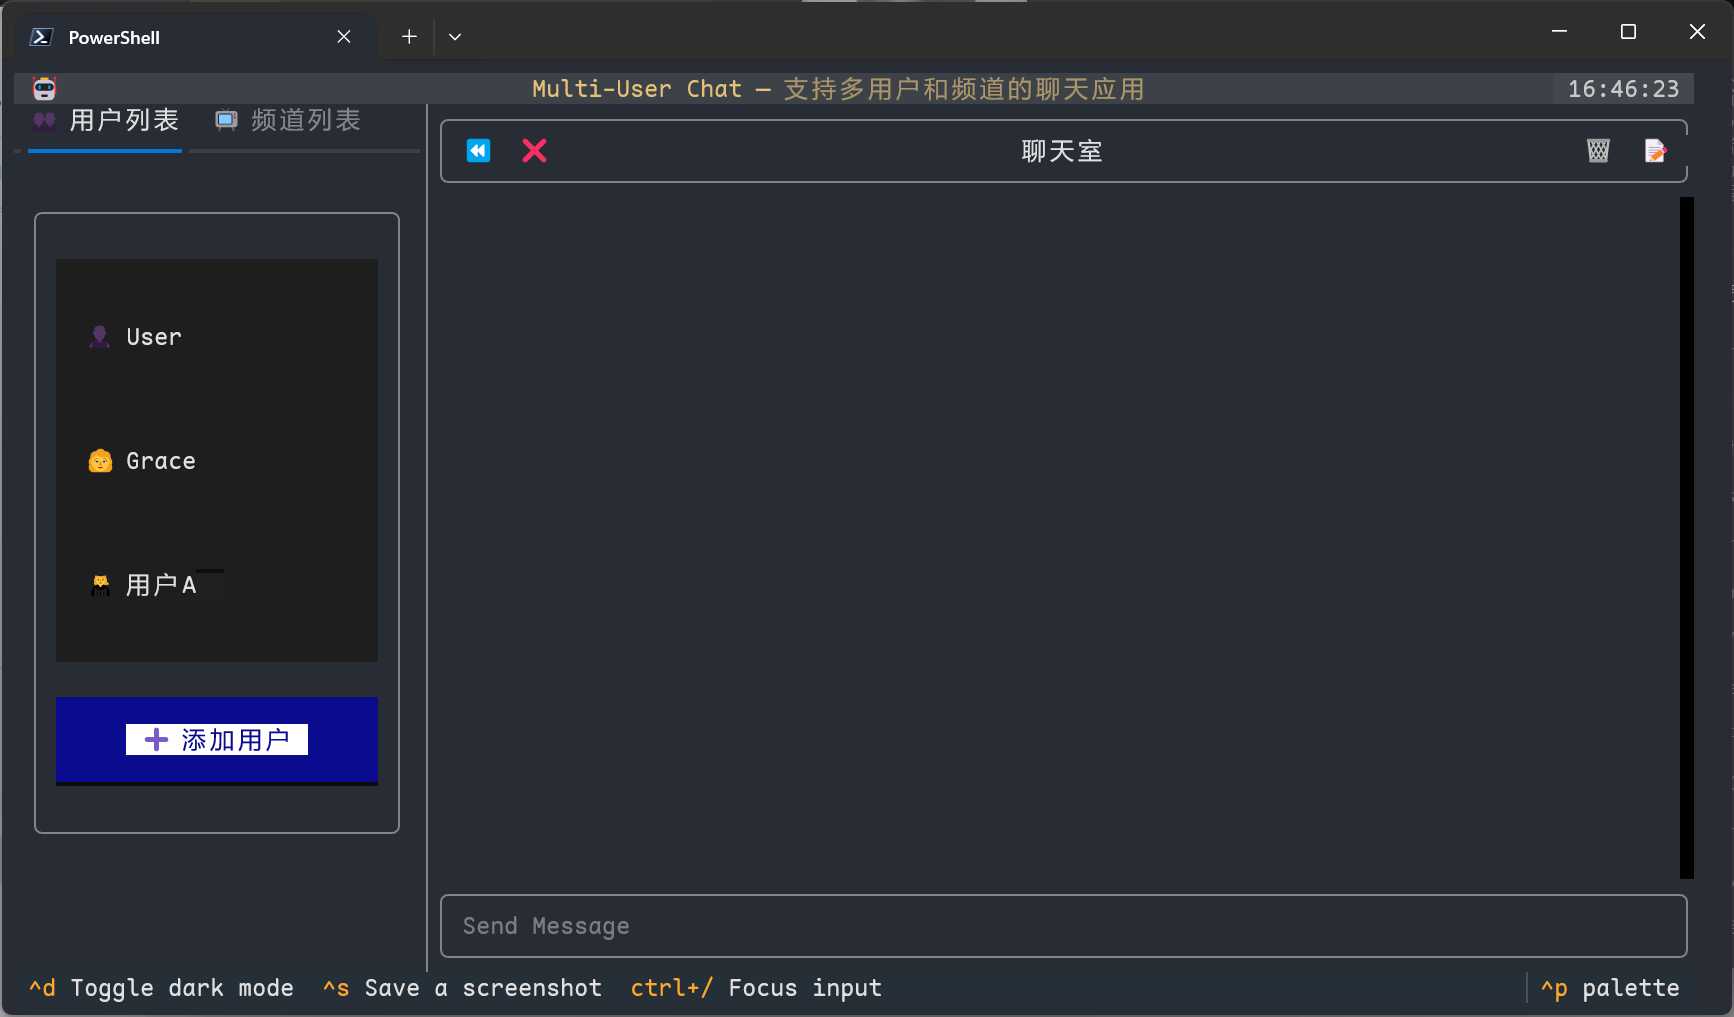
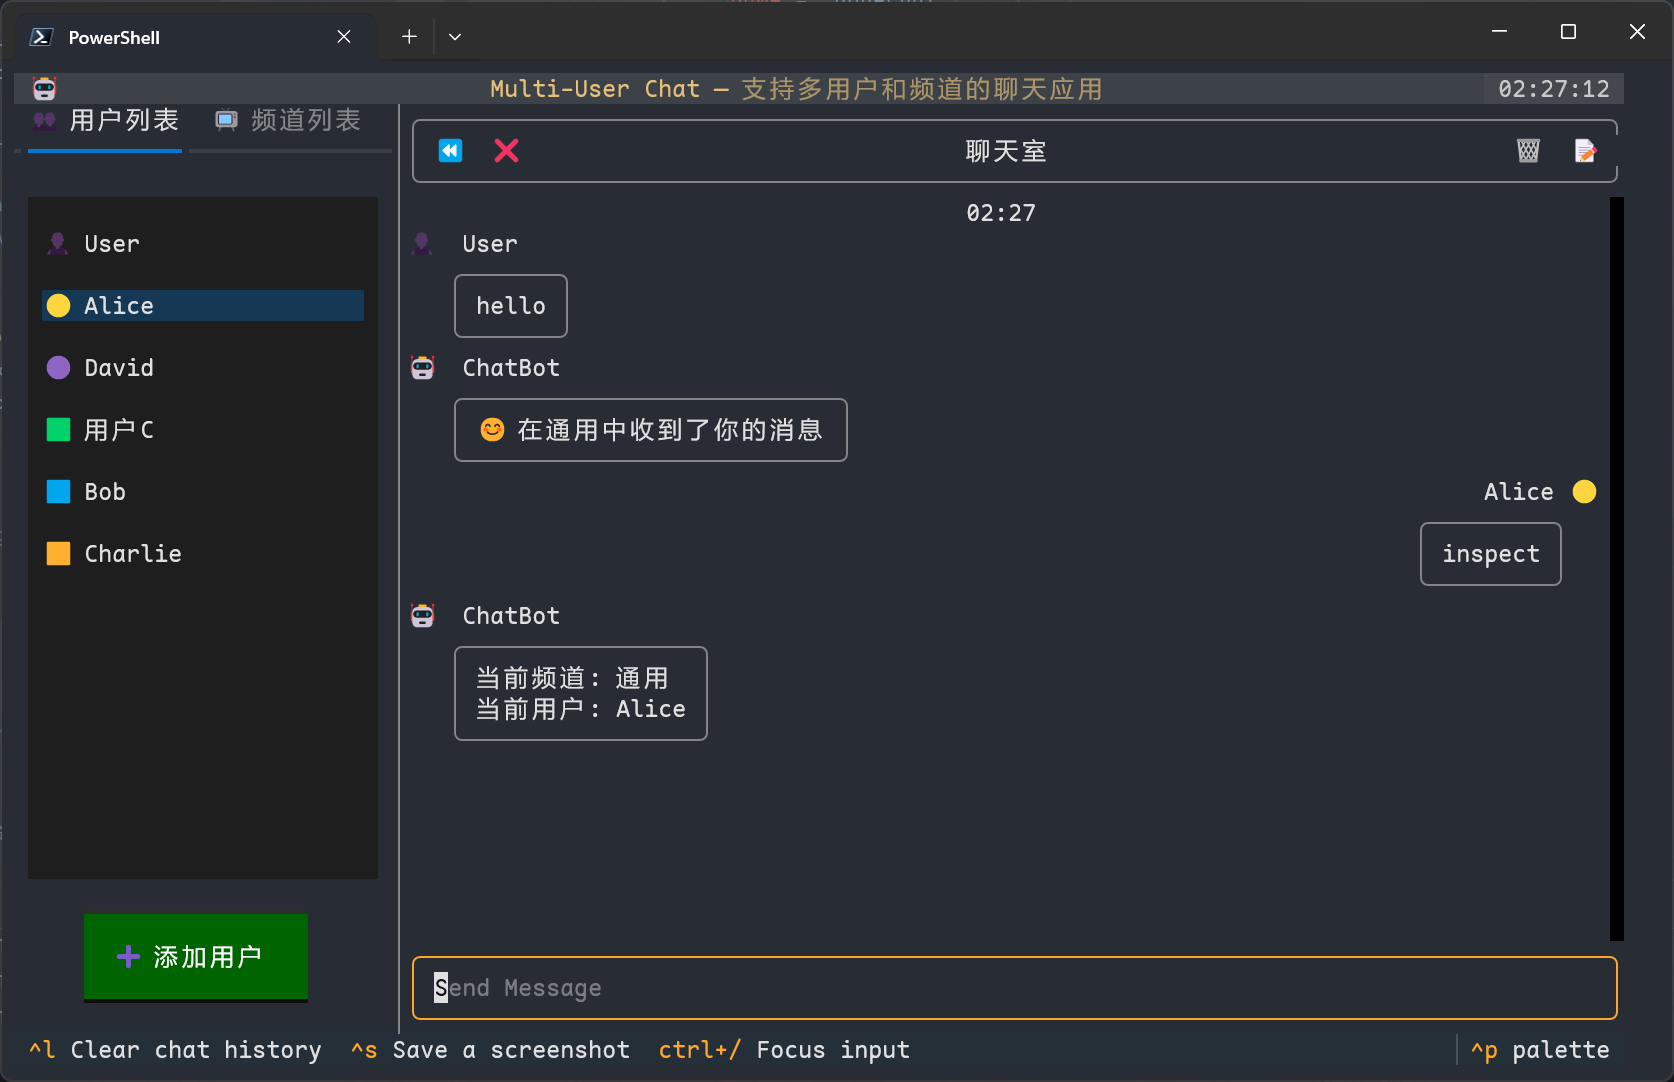
:lipstick: version 0.4.3 edit styles

diff --git a/nonechat/components/sidebar.py b/nonechat/components/sidebar.py
@@ -2,7 +2,8 @@ from typing import TYPE_CHECKING, cast
 
 from textual.widget import Widget
 from textual.message import Message
-from textual.widgets import TabPane, TabbedContent
+from textual.containers import Vertical
+from textual.widgets import Button, TabPane, TabbedContent
 
 from .user_selector import UserSelector, UserSelectorPressed
 from .channel_selector import ChannelSelector, ChannelSelectorPressed
@@ -36,16 +37,39 @@ class Sidebar(Widget):
         width: 25%;
         height: 100%;
         border-right: solid rgba(170, 170, 170, 0.7);
+        layout: vertical;
+    }
+
+    TabbedContent {
+        height: 100%;
     }
 
     TabPane {
         padding: 0;
+        layout: vertical;
+        height: 100%;
+    }
+
+    .selector-container {
+        height: 1fr;
+        layout: vertical;
+    }
+
+    .button-container {
+        height: auto;
+        layout: vertical;
+        margin: 1 0;
+        align-horizontal: center;
     }
 
     UserSelector, ChannelSelector {
         margin: 1 0 0 0;
-        border: none;
-        max-height: 100%;
+        height: 1fr;
+    }
+
+    .add-button {
+        background: darkgreen;
+        color: white;
     }
     """
 
@@ -61,16 +85,29 @@ class Sidebar(Widget):
     def compose(self):
         with TabbedContent():
             with TabPane("👥 用户列表", id="users"):
-                yield self.user_selector
+                with Vertical(classes="selector-container"):
+                    yield self.user_selector
+                with Vertical(classes="button-container"):
+                    yield Button("➕ 添加用户", id="add-user", classes="add-button")
             with TabPane("📺 频道列表", id="channels"):
-                yield self.channel_selector
+                with Vertical(classes="selector-container"):
+                    yield self.channel_selector
+                with Vertical(classes="button-container"):
+                    yield Button("➕ 添加频道", id="add-channel", classes="add-button")
+
+    async def on_button_pressed(self, event: Button.Pressed):
+        """处理按钮点击事件"""
+        if event.button.id == "add-user":
+            await self.user_selector.add_new_user()
+        elif event.button.id == "add-channel":
+            await self.channel_selector.add_new_channel()
 
     def on_user_selector_pressed(self, event: UserSelectorPressed):
         """处理用户选择事件"""
         # 更新当前用户
         self.app.storage.set_user(event.user)
 
-        # 更新用���选择器显示
+        # 更新用户选择器显示
         # self.user_selector.update_user_list()
 
         # 向父组件发送消息

diff --git a/nonechat/components/channel_selector.py b/nonechat/components/channel_selector.py
@@ -4,7 +4,7 @@ from typing import TYPE_CHECKING, cast
 
 from textual.widget import Widget
 from textual.message import Message
-from textual.widgets import Label, Button, ListItem, ListView
+from textual.widgets import Label, ListItem, ListView
 
 from ..model import Channel
 
@@ -26,31 +26,20 @@ class ChannelSelector(Widget):
     DEFAULT_CSS = """
     ChannelSelector {
         layout: vertical;
-        height: auto;
+        height: 100%;
         width: 100%;
-        border: round rgba(170, 170, 170, 0.7);
-        padding: 1;
-        margin: 1;
+        padding: 0 1;
     }
 
     ChannelSelector ListView {
-        height: auto;
+        height: 1fr;
         width: 100%;
-        max-height: 85%;
     }
 
     ChannelSelector ListItem {
         width: 100%;
         margin: 1;
-        padding: 1;
         text-align: center;
-    }
-
-    ChannelSelector .add-channel-button {
-        width: 100%;
-        margin-top: 1;
-        background: darkgreen;
-        color: white;
     }
     """
 
@@ -64,7 +53,6 @@ class ChannelSelector(Widget):
 
     def compose(self):
         yield ListView(id="channel-list")
-        yield Button("➕ 添加频道", classes="add-channel-button", id="add-channel")
 
     async def on_mount(self):
         await self.update_channel_list()
@@ -92,11 +80,6 @@ class ChannelSelector(Widget):
                 else:
                     item.remove_class("current")
 
-    async def on_button_pressed(self, event: Button.Pressed):
-        """处理按钮点击事件"""
-        if event.button.id == "add-channel":
-            await self._add_new_channel()
-
     async def on_list_view_selected(self, event: ListView.Selected):
         """处理列表项选择事件"""
         if event.item and event.item.id and event.item.id.startswith("channel-"):
@@ -106,7 +89,7 @@ class ChannelSelector(Widget):
                     self.post_message(ChannelSelectorPressed(channel))
                     break
 
-    async def _add_new_channel(self):
+    async def add_new_channel(self):
         """添加新频道的逻辑"""
 
         # 生成随机频道ID

diff --git a/nonechat/components/user_selector.py b/nonechat/components/user_selector.py
@@ -4,7 +4,7 @@ from typing import TYPE_CHECKING, cast
 
 from textual.widget import Widget
 from textual.message import Message
-from textual.widgets import Label, Button, ListItem, ListView
+from textual.widgets import Label, ListItem, ListView
 
 from ..model import User
 
@@ -26,31 +26,20 @@ class UserSelector(Widget):
     DEFAULT_CSS = """
     UserSelector {
         layout: vertical;
-        height: auto;
+        height: 100%;
         width: 100%;
-        border: round rgba(170, 170, 170, 0.7);
-        padding: 1;
-        margin: 1;
+        padding: 0 1;
     }
 
     UserSelector ListView {
-        height: auto;
+        height: 1fr;
         width: 100%;
-        max-height: 85%;
     }
 
     UserSelector ListItem {
         width: 100%;
         margin: 1;
-        padding: 1;
         text-align: center;
-    }
-
-    UserSelector .add-user-button {
-        width: 100%;
-        margin-top: 1;
-        background: darkblue;
-        color: white;
     }
     """
 
@@ -64,7 +53,6 @@ class UserSelector(Widget):
 
     def compose(self):
         yield ListView(id="user-list")
-        yield Button("➕ 添加用户", classes="add-user-button", id="add-user")
 
     async def on_mount(self):
         await self.update_user_list()
@@ -87,11 +75,6 @@ class UserSelector(Widget):
             else:
                 item.remove_class("current")
 
-    async def on_button_pressed(self, event: Button.Pressed):
-        """处理按钮点击事件"""
-        if event.button.id == "add-user":
-            await self._add_new_user()
-
     async def on_list_view_selected(self, event: ListView.Selected):
         """处理列表项选择事件"""
         if event.item and event.item.id and event.item.id.startswith("user-"):
@@ -101,7 +84,7 @@ class UserSelector(Widget):
                     self.post_message(UserSelectorPressed(user))
                     break
 
-    async def _add_new_user(self):
+    async def add_new_user(self):
         """添加新用户的逻辑"""
 
         # 生成随机用户ID

diff --git a/nonechat/app.py b/nonechat/app.py
@@ -147,11 +147,11 @@ class Frontend(App, Generic[TB]):
 
         # 查找需要更新背景色的视图
         try:
-            horizontal_view = self.query_one(HorizontalView)
+            view = self.query_one(RouterView)
             if self.current_theme.dark:
-                horizontal_view.styles.background = setting.dark_bg_color
+                view.styles.background = setting.dark_bg_color
             else:
-                horizontal_view.styles.background = setting.bg_color
+                view.styles.background = setting.bg_color
         except Exception:
             # 视图可能还没有加载
             pass

diff --git a/nonechat/views/horizontal.py b/nonechat/views/horizontal.py
@@ -11,7 +11,7 @@ from ..components.sidebar import Sidebar, SidebarUserChanged, SidebarChannelChan
 if TYPE_CHECKING:
     from ..app import Frontend
 
-SHOW_LOG_BREAKPOINT = 120
+SHOW_LOG_BREAKPOINT = 125
 
 
 class HorizontalView(Widget):
@@ -73,12 +73,9 @@ class HorizontalView(Widget):
 
     def __init__(self):
         super().__init__()
-        # setting = self.app.setting
         self.sidebar = Sidebar()
         self.chatroom = ChatRoom()
         self.log_panel = LogPanel()
-        # if setting.bg_color:
-        #     self.styles.background = setting.bg_color
 
     @property
     def app(self) -> "Frontend":

diff --git a/nonechat/views/log_view.py b/nonechat/views/log_view.py
@@ -16,13 +16,13 @@ class LogView(Widget):
     LogView > Toolbar {
         dock: top;
     }
+    LogView > LogPanel {
+        padding: 0 1;
+    }
     """
 
     def __init__(self):
         super().__init__()
-        # setting = self.app.setting
-        # if setting.bg_color:
-        #     self.styles.background = setting.bg_color
 
     def compose(self):
         yield Toolbar(self.app.setting)

diff --git a/nonechat/components/log/__init__.py b/nonechat/components/log/__init__.py
@@ -28,11 +28,7 @@ class LogPanel(Widget):
 
     def __init__(self) -> None:
         super().__init__()
-
         self.output = RichLog(max_lines=MAX_LINES, min_width=60, wrap=True, markup=True)
-        # if setting.bg_color:
-        #     self.styles.background = setting.bg_color
-        #     self.output.styles.background = setting.bg_color
 
     @property
     def storage(self) -> "Storage":
